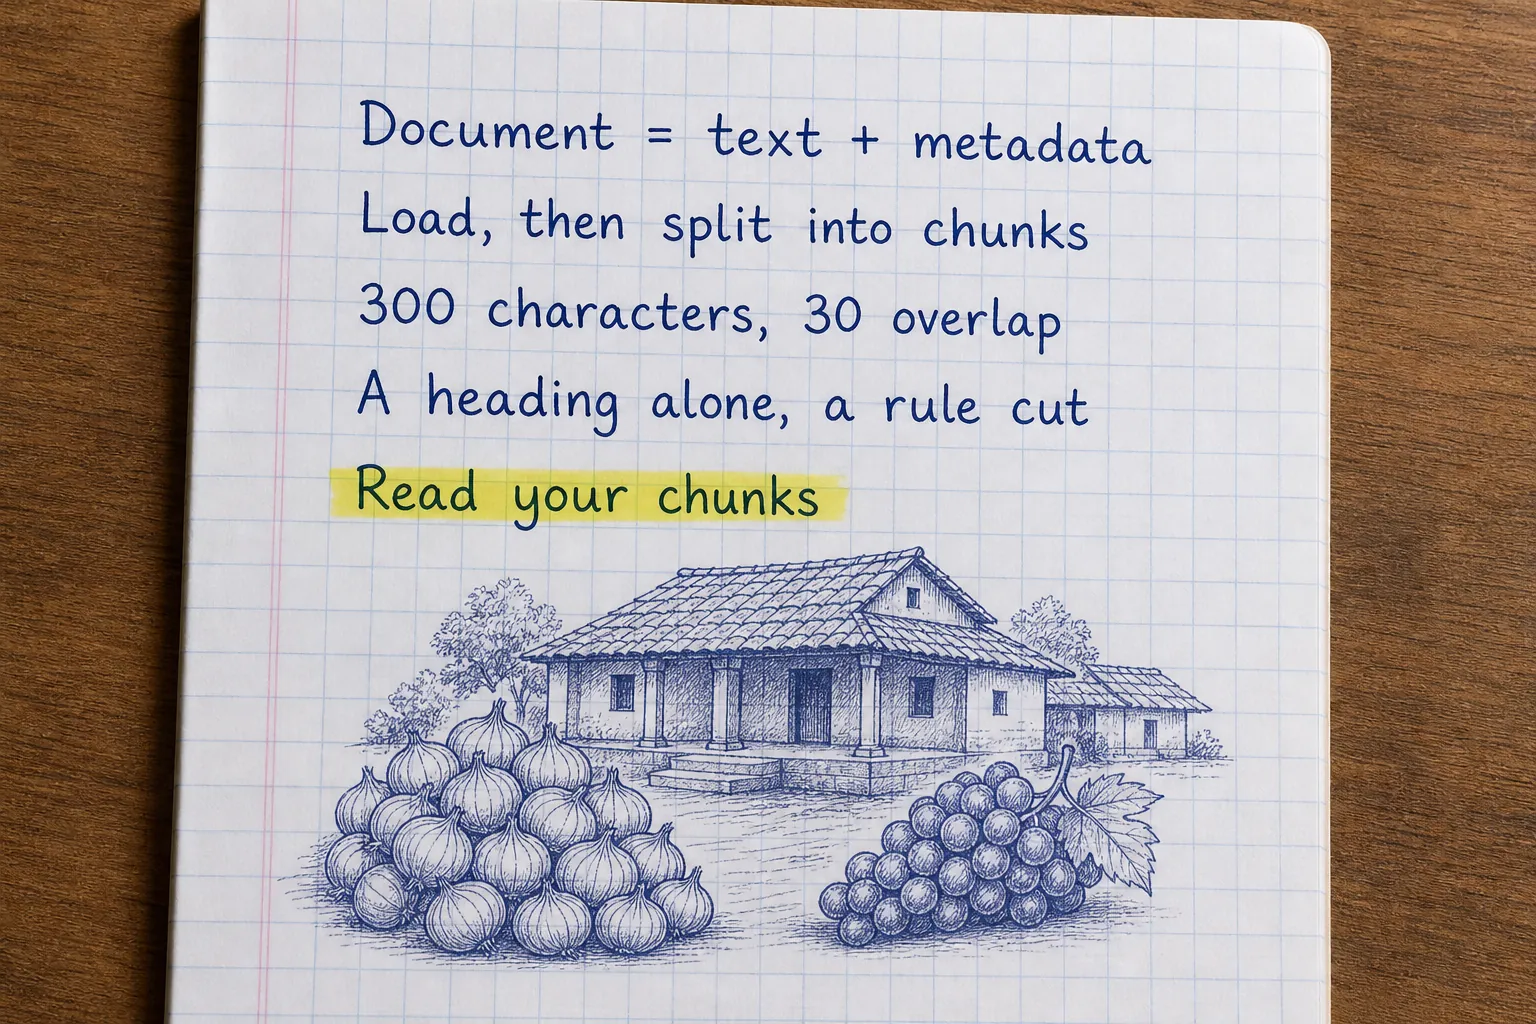
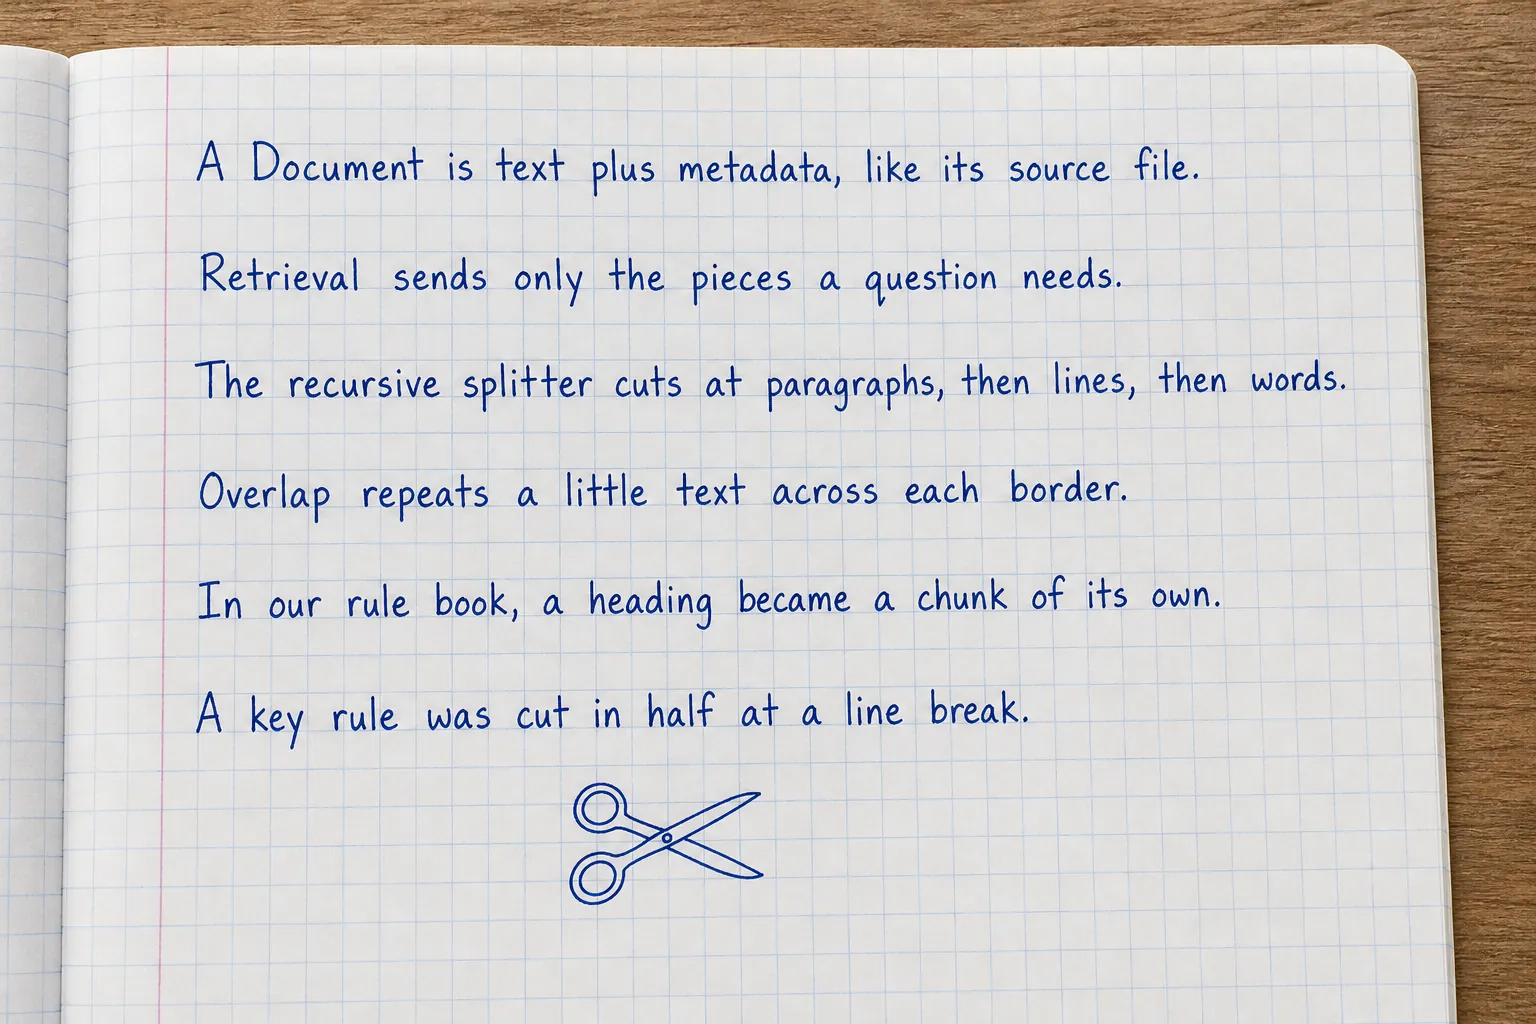
LangChain chapter 17 rewritten: plain and fuller, the chunking checked against the real splitter

diff --git a/labs/langchain/chapters/17-documents.md b/labs/langchain/chapters/17-documents.md
@@ -26,14 +26,19 @@ Document(page_content="Cold storage\n\nThe co-op's cold store ...", metadata={"s
 a date, who may see it. Metadata travels with the text through splitting, embedding and search, so an answer can say
 **where** it came from ("[storage.txt]").
 
-A **loader** is anything that turns files (PDFs, web pages, databases) into Documents. Many ready-made loaders used to
-live in `langchain-community`, which is now being retired in favour of separate integration packages; for plain text
-files, a few lines of Python are the clearest loader of all.
+A **loader** is anything that turns files (PDFs, web pages, databases) into Documents. Many ready-made loaders live in `langchain-community` (the lab has 0.4.2) or in separate integration packages; for
+plain text files, a few lines of Python are the clearest loader of all.
 :::
 
 :::step{type=task task=load_rules title="Your turn: load the rule book" file="17-documents/loader.py" line="8-12"}
-Finish `load_rules(folder)`: for every `.txt` file in `sorted(folder.glob("*.txt"))`, make a `Document` with the file's
-text and `{"source": path.name}`. Return the list.
+Finish `load_rules(folder)`:
+
+1. Go through `sorted(folder.glob("*.txt"))`: every `.txt` file, in name order.
+2. For each `path`, make `Document(page_content=path.read_text(), metadata={"source": path.name})`.
+3. Return the list.
+
+The usual slip: `metadata={"source": str(path)}`, the whole path. Use `path.name`, the file name alone, so answers
+cite "storage.txt", not a folder on your machine.
 
 Press **Check**.
 :::
@@ -46,7 +51,8 @@ might be found, but the sentence was still buried in it.
 
 Research on **passage retrieval** in the 1990s found that searching smaller passages often works better than whole
 documents. In **2020** Facebook's **Dense Passage Retrieval** (Vladimir Karpukhin and colleagues) split Wikipedia into
-about 21 million passages of 100 words each, embedded every passage, and found answers far better than keyword search.
+about 21 million passages of 100 words each, embedded every passage, and found a passage containing the answer far more often than a strong keyword search
+(BM25): 9 to 19 percentage points more often among the top 20 results, depending on the dataset.
 Retrieval-augmented generation (chapter 19) was built on top of it. Splitting documents into **chunks** has been the
 first step of retrieval ever since.
 
@@ -80,8 +86,12 @@ chunks = splitter.split_documents(docs)     # each keeps its document's metadata
 :::
 
 :::step{type=task task=split_rules title="Your turn: split the rules" file="17-documents/loader.py" line="15-19"}
-Finish `split(docs, size, overlap)`: make a `RecursiveCharacterTextSplitter(chunk_size=size, chunk_overlap=overlap,
-add_start_index=True)` and return `splitter.split_documents(docs)`.
+Finish `split(docs, size, overlap)`:
+
+1. `splitter = RecursiveCharacterTextSplitter(chunk_size=size, chunk_overlap=overlap, add_start_index=True)`.
+2. Return `splitter.split_documents(docs)`.
+
+The usual slip: `splitter.split_text(...)`, which returns plain strings and loses the `source` metadata.
 
 ```bash run
 cd /workspace/17-documents && python main.py
@@ -91,6 +101,8 @@ Press **Check**.
 :::
 
 :::step{type=try title="Five documents, twelve pieces, and a rule cut in half"}
+A real run (the splitter has no randomness: we got exactly this again on 25 November):
+
 ```text
 $ python main.py
 5 documents: loans.txt (488 chars), market.txt (436 chars), membership.txt (407 chars), spraying.txt (490 chars), storage.txt (565 chars)
@@ -120,7 +132,7 @@ what they do to a real answer, and chapter 20 measures and fixes them.
 :::question
 You raise `chunk_size` to 2,000 characters. What happens to the rule book?
 :::
-- [x] Each file becomes one chunk: no rule is cut, but every search returns a whole file
+- [x] Each file becomes one chunk (we tried it: 5 chunks): no rule is cut, but every search returns a whole file
 - [ ] The chunks overlap more
 - [ ] Embedding fails
 :::explain
@@ -176,7 +188,7 @@ You can now:
 
 Next, chapter 18: embedding the chunks and searching them by meaning.
 
-:::photo{src="/lesson-images/langchain/lc-17-notes.webp" alt="Handwritten notes about documents and chunking: Document = text + metadata; Load, then split into chunks; 300 characters, 30 overlap; A heading alone, a rule cut; Read your chunks" ai="true"}
+:::photo{src="/lesson-images/langchain/lc-17-notes.webp" alt="Handwritten notes about documents and chunks: A Document is text plus metadata, like its source file. Retrieval sends only the pieces a question needs. The recursive splitter cuts at paragraphs, then lines, then words. Overlap repeats a little text across each border. In our rule book, a heading became a chunk of its own. A key rule was cut in half at a line break." ai="true"}
 One page of notes for this chapter.
 :::
 :::

diff --git a/CHANGELOG.md b/CHANGELOG.md
@@ -1,5 +1,14 @@
 # Changelog
 
+## 25 November: LangChain chapter 17 rewritten (easy, a little detailed, checked)
+
+- Both tasks list their steps and the usual slips (the whole path as the source; split_text losing the metadata).
+- Checked in a lab machine: the output word for word, including the heading chunk and the rule cut at "Bookings of
+  more than 50"; 2,000 characters really gives one chunk per file (5), now in the quiz. Corrected: Dense Passage
+  Retrieval's gain is now the paper's own figure (9 to 19 points more often than BM25 among the top 20), not "far
+  better"; "langchain-community is being retired" (not confirmed) became "many loaders live in langchain-community
+  (0.4.2 in the lab) or in separate packages". A new notes page.
+
 ## 25 November: LangChain chapter 16 rewritten (easy, a little detailed, checked)
 
 - Both tasks list their steps and the usual slips (calling on_line only at the end; no node filter).

diff --git a/REWRITE_LIST.md b/REWRITE_LIST.md
@@ -11,7 +11,7 @@ Status: **1 of 23 labs done** (13 of 319 chapters).
 | # | Lab | Title | Chapters | Status | Done on |
 |---|---|---|---|---|---|
 | 1 | rag-vector-databases | RAG and vector databases | 13 | done (13 of 13) | 25 Nov |
-| 2 | langchain | LangChain | 27 | in progress (16 of 27) | |
+| 2 | langchain | LangChain | 27 | in progress (17 of 27) | |
 | 3 | langchain4j | LangChain4j | 30 | not started | |
 | 4 | langgraph | LangGraph | 24 | not started | |
 | 5 | spring-ai | Spring AI | 20 | not started | |
